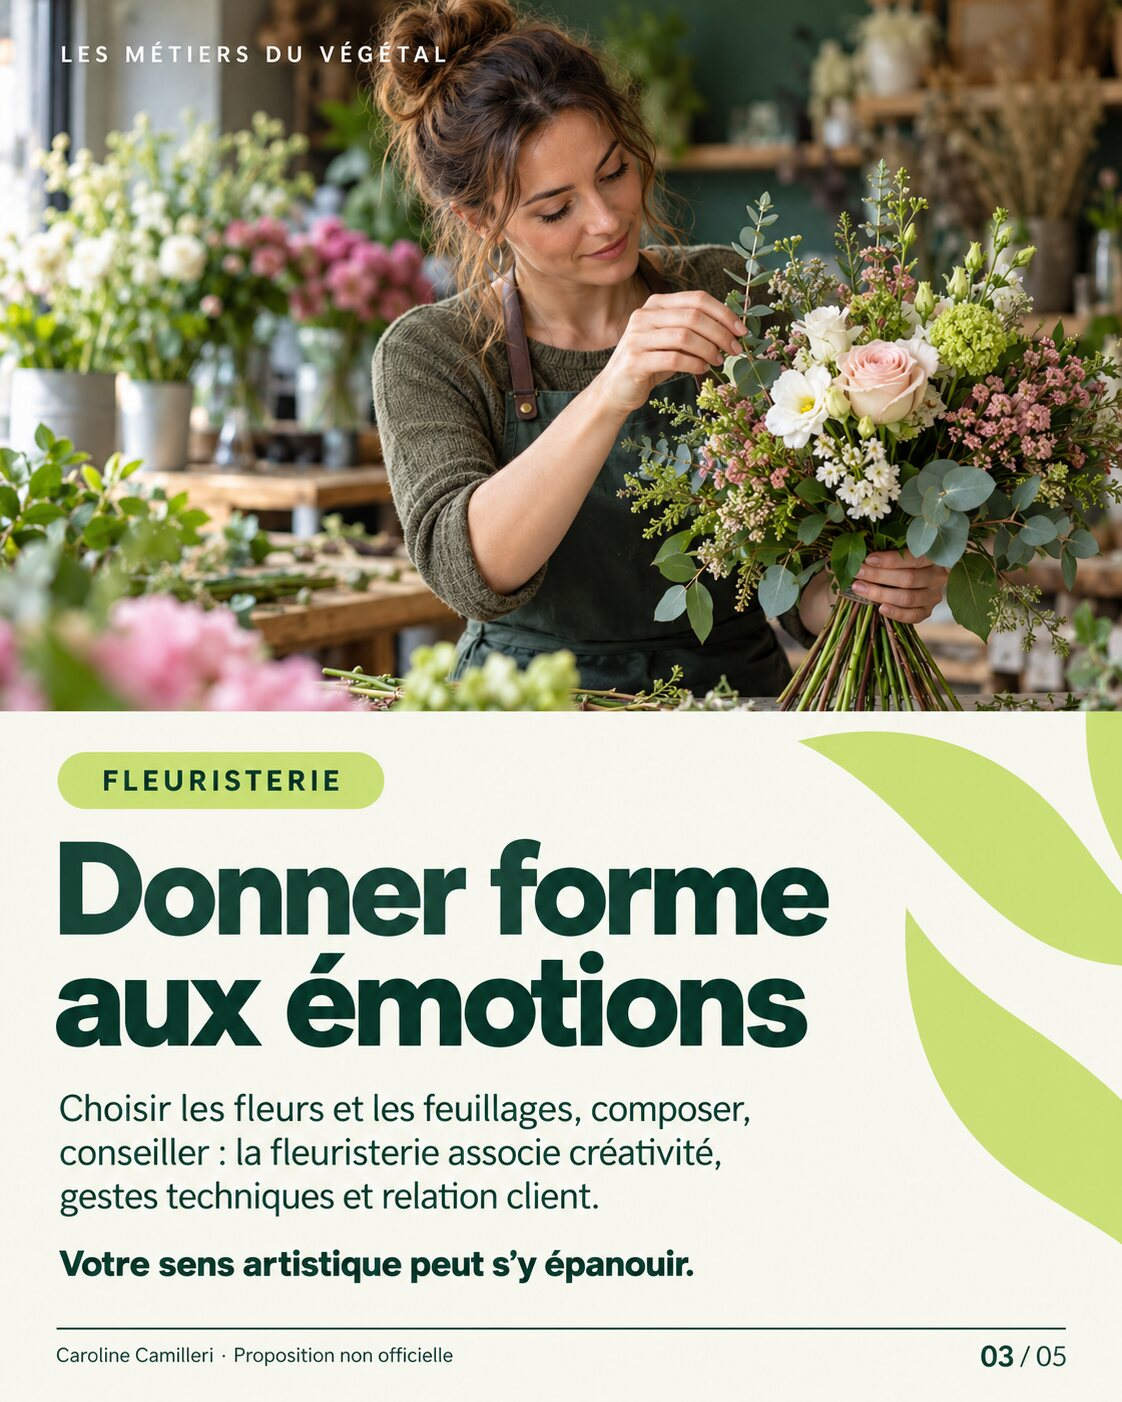
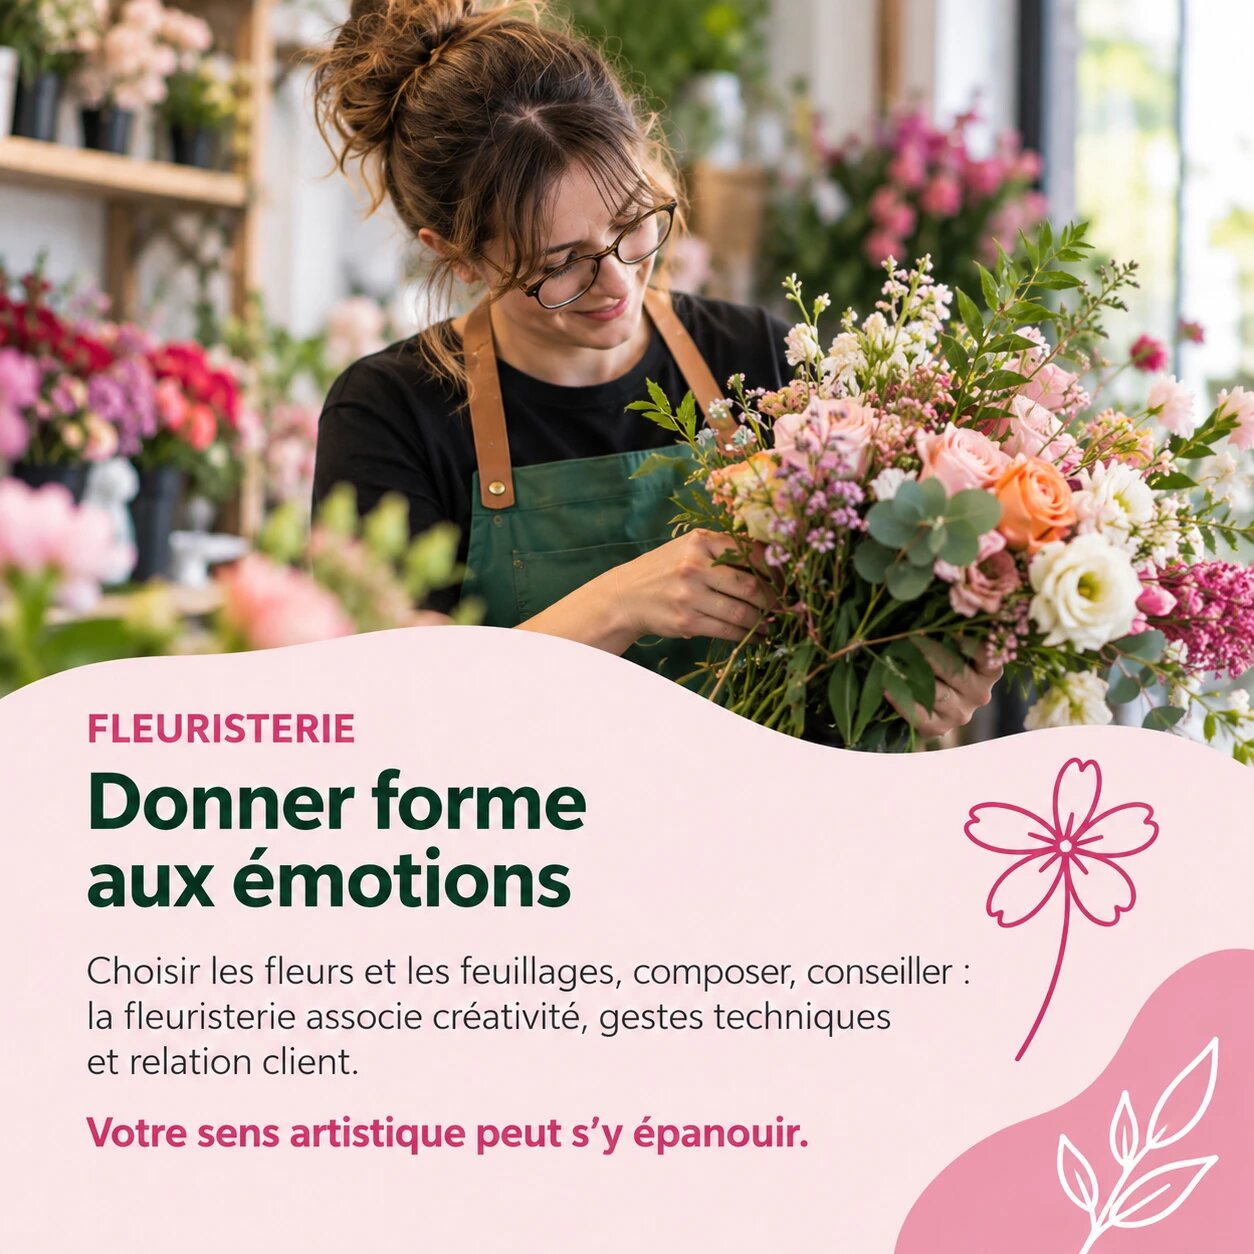
Nouveaux visuels du carrousel et maquette de publication LinkedIn
- Remplacement des 5 visuels (format carré 1254 px), transcriptions et
  textes alternatifs mis à jour
- Texte proposé placé au-dessus du carrousel, dans une maquette de
  publication LinkedIn (texte repliable, carrousel document, barre d'actions
  décorative), sans compte officiel ni chiffres de réactions
- Publication et carrousel réunis en une seule réalisation

Claude-Session: https://claude.ai/code/session_01Prdpuy77pNa9u6f4qJaPVN

diff --git a/assets/js/content.js b/assets/js/content.js
@@ -46,40 +46,30 @@ window.PORTFOLIO = {
     surtitre: "Candidature · Chargé de projet Communication digitale et éditoriale",
     titre: "Valoriser les métiers du végétal, du message aux contenus",
     texte:
-      "Pour accompagner ma candidature chez VALHOR, j’ai imaginé une campagne exploratoire sur l’attractivité des métiers, déclinée en six réalisations qui répondent aux missions du poste.",
+      "Pour accompagner ma candidature chez VALHOR, j’ai imaginé une campagne exploratoire sur l’attractivité des métiers, déclinée en cinq réalisations qui répondent aux missions du poste.",
     profil:
       "Cheffe de projet digital, j’ai une expérience en communication digitale et institutionnelle au Marché International de Rungis (SEMMARIS).",
     bouton: "Découvrir les réalisations"
   },
 
   realisations: {
-    titre: "Six réalisations pour illustrer les missions du poste",
+    titre: "Cinq réalisations pour illustrer les missions du poste",
     intro:
       "Un même message, « Derrière chaque espace végétalisé, des métiers à découvrir », décliné par canal. Public visé : les personnes en orientation ou en reconversion ; relais : la filière, la formation, les partenaires institutionnels.",
     projets: [
       {
         id: "carrousel",
-        nom: "Carrousel LinkedIn",
+        nom: "Publication LinkedIn",
         titre: "Faire découvrir trois métiers sur LinkedIn",
         texte:
-          "Cinq pages pour présenter l’horticulture, la fleuristerie et le paysage : un message simple, des métiers incarnés, une lecture progressive.",
+          "Un texte d’accroche et un carrousel de cinq visuels : un message simple, des métiers incarnés, une lecture progressive.",
         statut: "disponible",
-        media: { type: "carrousel" },
-        attente:
-          "« Concevoir, planifier et publier des contenus adaptés aux différentes plateformes, notamment LinkedIn » ; « concevoir ou adapter des visuels ».",
-        experience:
-          "Animation des réseaux sociaux du Marché de Rungis et développement de ses communautés, de 1 000 à plus de 100 000 abonnés.",
-        tags: ["Social media", "LinkedIn", "Direction visuelle", "Production assistée par IA"],
-        note: "Sert l’ambition « attractivité des métiers » du projet Horizon 2030. Visuels générés avec l’IA sous ma direction."
-      },
-      {
-        id: "publication",
-        nom: "Publication LinkedIn",
-        titre: "Écrire le texte qui accompagne le carrousel",
-        texte: "Une accroche incarnée, les trois univers, une question pour ouvrir la conversation.",
-        statut: "proposition",
+        statutLibelle: "Visuels disponibles · texte proposé",
         media: {
           type: "publication",
+          auteur: "Caroline Camilleri",
+          sousTitre: "Proposition de publication · non diffusée",
+          titreDocument: "Les métiers du végétal",
           paragraphes: [
             "Derrière les espaces végétalisés que nous côtoyons, il y a des femmes, des hommes et des savoir-faire.",
             "Faire grandir les plantes, composer avec les fleurs, concevoir et entretenir les espaces extérieurs : les métiers du végétal ouvrent des voies variées.",
@@ -89,10 +79,11 @@ window.PORTFOLIO = {
           hashtags: ["#MétiersDuVégétal", "#Horticulture", "#Fleuristerie", "#Paysage"]
         },
         attente:
-          "« Animer les communautés digitales […] et favoriser l’engagement des audiences » ; « veiller à la qualité rédactionnelle ».",
-        experience: "Rédaction de contenus éditoriaux et de publications pour les réseaux sociaux.",
-        tags: ["Rédaction", "Engagement", "Cohérence des messages"],
-        note: "Proposition de texte, non publiée."
+          "« Concevoir, planifier et publier des contenus adaptés aux différentes plateformes, notamment LinkedIn » ; « concevoir ou adapter des visuels » ; « favoriser l’engagement des audiences ».",
+        experience:
+          "Animation des réseaux sociaux du Marché de Rungis et développement de ses communautés, de 1 000 à plus de 100 000 abonnés.",
+        tags: ["Social media", "LinkedIn", "Rédaction", "Direction visuelle", "Production assistée par IA"],
+        note: "Sert l’ambition « attractivité des métiers » du projet Horizon 2030. Visuels générés avec l’IA sous ma direction ; maquette sans compte officiel ni réactions."
       },
       {
         id: "newsletter",
@@ -179,10 +170,10 @@ window.PORTFOLIO = {
       role: "Couverture",
       image: "assets/img/carrousel/valhor-01-couverture",
       alt:
-        "Page 1, couverture. Titre : Derrière chaque espace végétalisé, des métiers à découvrir. Photo d’une jardinière plantant des fleurs dans un massif, un collègue travaillant en arrière-plan.",
+        "Page 1, couverture. Titre : Derrière chaque espace végétalisé, des métiers à découvrir. Photo d’une professionnelle de dos, portant un plateau de plantes fleuries dans une pépinière.",
       transcription: {
         titre: "Derrière chaque espace végétalisé, des métiers à découvrir.",
-        texte: ["Horticulture, fleuristerie, paysage : trois univers professionnels du végétal."]
+        texte: ["Horticulture, fleuristerie, paysage : découvrez trois univers professionnels du végétal."]
       }
     },
     {
@@ -190,7 +181,7 @@ window.PORTFOLIO = {
       role: "Horticulture",
       image: "assets/img/carrousel/valhor-02-horticulture",
       alt:
-        "Page 2, horticulture. Titre : Faire naître et grandir le végétal. Photo d’une horticultrice tenant un jeune plant en motte dans une serre.",
+        "Page 2, horticulture. Titre : Faire naître et grandir le végétal. Photo d’un jeune horticulteur travaillant des plants sous une serre.",
       transcription: {
         titre: "Horticulture — Faire naître et grandir le végétal",
         texte: [
@@ -204,7 +195,7 @@ window.PORTFOLIO = {
       role: "Fleuristerie",
       image: "assets/img/carrousel/valhor-03-fleuristerie",
       alt:
-        "Page 3, fleuristerie. Titre : Donner forme aux émotions. Photo d’une fleuriste ajustant un bouquet dans un atelier fleuri.",
+        "Page 3, fleuristerie. Titre : Donner forme aux émotions. Photo d’une fleuriste composant un bouquet de roses et de feuillages dans sa boutique.",
       transcription: {
         titre: "Fleuristerie — Donner forme aux émotions",
         texte: [
@@ -218,7 +209,7 @@ window.PORTFOLIO = {
       role: "Paysage",
       image: "assets/img/carrousel/valhor-04-paysage",
       alt:
-        "Page 4, paysage. Titre : Imaginer, aménager, entretenir. Photo d’une paysagiste plantant dans un massif d’un espace urbain.",
+        "Page 4, paysage. Titre : Imaginer, aménager, entretenir. Photo d’un paysagiste casqué entretenant un massif fleuri avec une débroussailleuse.",
       transcription: {
         titre: "Paysage — Imaginer, aménager, entretenir",
         texte: [
@@ -232,7 +223,7 @@ window.PORTFOLIO = {
       role: "Conclusion",
       image: "assets/img/carrousel/valhor-05-conclusion",
       alt:
-        "Page 5, conclusion. Titre : Et si votre avenir prenait racine dans le végétal ? Photo de mains tenant de la terre et de jeunes pousses.",
+        "Page 5, conclusion. Titre : Et si votre avenir prenait racine dans le végétal ? Photo d’un parc urbain fleuri avec un banc, des arbres et des immeubles en arrière-plan.",
       transcription: {
         titre: "Et si votre avenir prenait racine dans le végétal ?",
         texte: [

diff --git a/assets/js/main.js b/assets/js/main.js
@@ -48,8 +48,8 @@
   function picture(base, alt, opts) {
     opts = opts || {};
     return "<picture>" +
-      '<source type="image/webp" srcset="' + esc(base) + "-720.webp 720w, " + esc(base) + '.webp 1122w" sizes="' + (opts.sizes || "(min-width: 900px) 440px, 92vw") + '">' +
-      '<img src="' + esc(base) + '.jpg" width="1122" height="1402" alt="' + esc(alt) + '"' +
+      '<source type="image/webp" srcset="' + esc(base) + "-720.webp 720w, " + esc(base) + '.webp 1254w" sizes="' + (opts.sizes || "(min-width: 900px) 460px, 92vw") + '">' +
+      '<img src="' + esc(base) + '.jpg" width="1254" height="1254" alt="' + esc(alt) + '"' +
       (opts.eager ? ' fetchpriority="high"' : ' loading="lazy"') + ' decoding="async">' +
       "</picture>";
   }
@@ -92,36 +92,57 @@
   var SLIDES = C.carrousel;
   var n = SLIDES.length;
 
-  function mediaCarrousel() {
-    return '<div class="carousel" data-carousel aria-roledescription="carrousel" role="region" aria-label="Carrousel LinkedIn, ' + n + ' pages">' +
+  var ACTIONS = {
+    like: '<path d="M7 11v9H4v-9h3zm0 0l4-7c1.5 0 2.5 1 2.2 2.6L12.8 10H19a2 2 0 0 1 2 2.3l-1.2 6A2 2 0 0 1 17.8 20H7"/>',
+    comment: '<path d="M4 5h16v11H9l-5 4V5z"/>',
+    repost: '<path d="M7 7h11l-3-3M17 17H6l3 3M18 7v5M6 17v-5"/>',
+    send: '<path d="M21 3L3 10l7 3 3 7 8-17zM10 13l5-5"/>',
+    globe: '<circle cx="12" cy="12" r="8"/><path d="M4 12h16M12 4c2.5 2.5 2.5 13.5 0 16M12 4c-2.5 2.5-2.5 13.5 0 16"/>'
+  };
+  function svg(path, cls) {
+    return '<svg class="' + cls + '" aria-hidden="true" focusable="false" viewBox="0 0 24 24">' + path + "</svg>";
+  }
+
+  // Maquette de publication LinkedIn : texte au-dessus, carrousel « document » en dessous.
+  // Volontairement sans compte officiel ni chiffres de réactions.
+  function mediaPublication(p) {
+    var m = p.media;
+    var initiales = m.auteur.split(" ").map(function (w) { return w.charAt(0); }).join("");
+    return '<figure class="li-post">' +
+      '<figcaption class="sr-only">Maquette de publication LinkedIn proposée, non diffusée.</figcaption>' +
+      '<div class="li-post__head">' +
+      '<span class="li-post__avatar" aria-hidden="true">' + esc(initiales) + "</span>" +
+      '<div><p class="li-post__author">' + esc(m.auteur) + "</p>" +
+      '<p class="li-post__meta">' + esc(m.sousTitre) + " · " + svg(ACTIONS.globe, "li-post__globe") + "</p></div>" +
+      "</div>" +
+      '<div class="li-post__text is-collapsed" id="li-texte">' +
+      m.paragraphes.map(function (t) { return "<p>" + esc(t) + "</p>"; }).join("") +
+      '<p class="li-post__tags">' + m.hashtags.map(esc).join(" ") + "</p>" +
+      "</div>" +
+      '<button class="li-post__more" type="button" aria-expanded="false" aria-controls="li-texte">… plus<span class="sr-only"> : afficher tout le texte</span></button>' +
+      '<div class="carousel" data-carousel aria-roledescription="carrousel" role="region" aria-label="Carrousel LinkedIn, ' + n + ' pages">' +
+      '<div class="carousel__frame">' +
       '<div class="carousel__viewport" tabindex="0" aria-describedby="carousel-aide">' +
       SLIDES.map(function (d, i) {
         return '<div class="carousel__slide" role="group" aria-roledescription="page" aria-label="' + (i + 1) + " sur " + n + " : " + esc(d.role) + '">' +
           picture(d.image, d.alt, { eager: i === 0 }) + "</div>";
       }).join("") +
       "</div>" +
-      '<p class="sr-only" id="carousel-aide">Utilisez les flèches gauche et droite du clavier pour changer de page.</p>' +
-      '<div class="carousel__controls">' +
-      '<button class="btn-icon" type="button" data-action="prev" aria-label="Page précédente">' + icone("prev") + "</button>" +
-      '<p class="carousel__counter" aria-hidden="true"><span data-current>1</span> / ' + n + "</p>" +
-      '<button class="btn-icon" type="button" data-action="next" aria-label="Page suivante">' + icone("next") + "</button>" +
-      '<button class="btn btn--ghost carousel__zoom" type="button" data-action="zoom">' + icone("expand") + '<span>Agrandir<span class="sr-only"> la page affichée</span></span></button>' +
+      '<p class="carousel__bar" aria-hidden="true">' + esc(m.titreDocument) + ' · <span data-current>1</span> / ' + n + "</p>" +
+      '<button class="btn-icon carousel__arrow carousel__arrow--prev" type="button" data-action="prev" aria-label="Page précédente">' + icone("prev") + "</button>" +
+      '<button class="btn-icon carousel__arrow carousel__arrow--next" type="button" data-action="next" aria-label="Page suivante">' + icone("next") + "</button>" +
+      '<button class="btn-icon carousel__zoom" type="button" data-action="zoom" aria-label="Agrandir la page affichée">' + icone("expand") + "</button>" +
+      '<span class="carousel__progress" aria-hidden="true"><span data-progress></span></span>' +
       "</div>" +
+      '<p class="sr-only" id="carousel-aide">Utilisez les flèches gauche et droite du clavier pour changer de page.</p>' +
       '<p class="sr-only" aria-live="polite" data-status></p>' +
-      "</div>";
-  }
-
-  function mediaPublication(m) {
-    return '<figure class="post">' +
-      '<p class="post__label">Proposition éditoriale · non publiée</p>' +
-      '<blockquote class="post__body">' +
-      m.paragraphes.map(function (p) { return "<p>" + esc(p) + "</p>"; }).join("") +
-      '<p class="post__tags">' + m.hashtags.map(esc).join(" ") + "</p>" +
-      "</blockquote>" +
-      '<figcaption class="post__media">' +
-      '<img src="' + esc(SLIDES[0].image) + '-720.webp" alt="" width="1122" height="1402" loading="lazy" decoding="async">' +
-      "<span>Accompagne le carrousel de " + n + " pages</span>" +
-      "</figcaption></figure>";
+      "</div>" +
+      '<div class="li-post__actions" aria-hidden="true">' +
+      [["like", "J’aime"], ["comment", "Commenter"], ["repost", "Republier"], ["send", "Envoyer"]].map(function (a) {
+        return "<span>" + svg(ACTIONS[a[0]], "li-post__icon") + a[1] + "</span>";
+      }).join("") +
+      "</div>" +
+      "</figure>";
   }
 
   function mediaNewsletter(p) {
@@ -173,8 +194,7 @@
   }
 
   var MEDIAS = {
-    carrousel: mediaCarrousel,
-    publication: function (p) { return mediaPublication(p.media); },
+    publication: mediaPublication,
     newsletter: mediaNewsletter,
     video: mediaVideo,
     article: mediaArticle,
@@ -257,8 +277,19 @@
   var btnZoom = root.querySelector('[data-action="zoom"]');
   var current = root.querySelector("[data-current]");
   var status = root.querySelector("[data-status]");
+  var progress = root.querySelector("[data-progress]");
   var lightbox = document.getElementById("lightbox");
   var index = 0;
+
+  // « … plus » : déplie le texte de la publication, comme sur LinkedIn.
+  var more = document.querySelector(".li-post__more");
+  more.addEventListener("click", function () {
+    document.getElementById("li-texte").classList.remove("is-collapsed");
+    more.hidden = true;
+    more.setAttribute("aria-expanded", "true");
+    document.getElementById("li-texte").setAttribute("tabindex", "-1");
+    document.getElementById("li-texte").focus();
+  });
 
   function show(i, announce) {
     index = Math.max(0, Math.min(slides.length - 1, i));
@@ -269,6 +300,7 @@
       if ("inert" in s) s.inert = !active;
     });
     current.textContent = index + 1;
+    progress.style.width = ((index + 1) / slides.length * 100) + "%";
     if (announce) status.textContent = "Page " + (index + 1) + " sur " + slides.length + " : " + SLIDES[index].role;
 
     // Pas de bouclage : on désactive en bout de course, sans perdre le focus.

diff --git a/assets/css/styles.css b/assets/css/styles.css
@@ -247,7 +247,7 @@ a { color: var(--forest); text-underline-offset: 0.18em; }
 .project__media {
   display: flex; flex-direction: column; justify-content: center; align-items: center;
   min-width: 0;
-  padding: 1.25rem;
+  padding: 0.75rem;
   background: var(--tint);
   border-bottom: 1px solid var(--border);
 }
@@ -294,20 +294,72 @@ a { color: var(--forest); text-underline-offset: 0.18em; }
 .transcript__plain { gap: 0.4rem; padding-left: 2rem; list-style: disc; }
 .transcript__title { font-weight: 700; color: var(--forest); }
 
-/* Carrousel */
-.carousel { width: min(100%, 420px); }
-@media (min-width: 900px) {
-  /* Hauteur limitée pour lire la page sans défiler. */
-  .carousel { width: min(100%, calc(min(62vh, 560px) * 1122 / 1402)); }
+/* Publication LinkedIn (maquette) */
+.li-post {
+  --li-blue: #0a66c2;
+  /* Largeur limitée pour que la publication tienne dans l'écran sur ordinateur. */
+  width: min(100%, 460px);
+  margin: 0;
+  background: #fff;
+  border: 1px solid #dcdcdc;
+  border-radius: var(--radius-card);
+  box-shadow: 0 1px 2px rgba(0, 0, 0, 0.08);
+  color: #1d1d1d;
+  font-family: -apple-system, system-ui, "Segoe UI", Roboto, "Helvetica Neue", Arial, sans-serif;
+  font-size: 0.875rem;
+  line-height: 1.45;
+  overflow: hidden;
 }
+@media (min-width: 900px) {
+  .li-post { width: min(100%, calc(min(52vh, 460px))); min-width: min(100%, 360px); }
+}
+.li-post__head { display: flex; align-items: center; gap: 0.6rem; padding: 0.75rem 0.9rem 0.4rem; }
+.li-post__avatar {
+  display: grid; place-items: center; flex: none;
+  width: 44px; height: 44px;
+  font-family: var(--font-display); font-weight: 800; font-size: 0.95rem;
+  color: var(--forest-deep); background: var(--lime);
+  border-radius: 50%;
+}
+.li-post__author { font-weight: 600; font-size: 0.9rem; }
+.li-post__meta { font-size: 0.75rem; color: #5e5e5e; }
+.li-post__globe { display: inline-block; vertical-align: -0.1em; width: 0.8rem; height: 0.8rem; fill: none; stroke: currentColor; stroke-width: 1.8; }
+.li-post__text { display: grid; gap: 0.55rem; padding: 0.25rem 0.9rem 0; }
+/* Replié : seul le premier paragraphe, limité à deux lignes, comme sur LinkedIn. */
+.li-post__text.is-collapsed > :not(:first-child) { display: none; }
+.li-post__text.is-collapsed > :first-child {
+  display: -webkit-box;
+  -webkit-box-orient: vertical;
+  -webkit-line-clamp: 2;
+  overflow: hidden;
+}
+.li-post__more[hidden] { display: none; }
+.li-post__tags { color: var(--li-blue); font-weight: 600; }
+.li-post__more {
+  display: block; margin: 0 0.9rem 0 auto; padding: 0.1rem 0;
+  font: inherit; font-size: 0.85rem; color: #5e5e5e;
+  background: none; border: 0; cursor: pointer;
+}
+.li-post__more:hover { color: var(--li-blue); text-decoration: underline; }
+.li-post__text:not(.is-collapsed) { padding-bottom: 0.6rem; }
+.li-post__actions {
+  display: grid; grid-template-columns: repeat(4, 1fr);
+  padding: 0.25rem 0.4rem;
+  border-top: 1px solid #e8e8e8;
+  color: #5e5e5e; font-size: 0.78rem; font-weight: 600;
+}
+.li-post__actions span { display: flex; align-items: center; justify-content: center; gap: 0.3rem; padding: 0.55rem 0.2rem; }
+.li-post__icon { width: 1.05rem; height: 1.05rem; fill: none; stroke: currentColor; stroke-width: 1.8; stroke-linejoin: round; stroke-linecap: round; }
+@media (max-width: 380px) { .li-post__actions span { flex-direction: column; gap: 0.1rem; } }
+
+/* Carrousel « document » dans la publication */
+.carousel { width: 100%; margin-top: 0.5rem; }
+.carousel__frame { position: relative; }
 .carousel__viewport {
   display: grid;
-  aspect-ratio: 1122 / 1402;
+  aspect-ratio: 1 / 1;
   max-width: 100%;
-  border-radius: var(--radius-control);
-  overflow: hidden;
-  background: var(--forest-night);
-  box-shadow: 0 18px 40px -24px rgba(15, 95, 49, 0.6);
+  background: #f3f2ef;
   touch-action: pan-y;
 }
 .carousel__slide { grid-area: 1 / 1; visibility: hidden; opacity: 0; }
@@ -316,31 +368,29 @@ a { color: var(--forest); text-underline-offset: 0.18em; }
 @media (prefers-reduced-motion: no-preference) {
   .carousel__slide { transition: opacity 0.25s ease, visibility 0.25s; }
 }
-.carousel__controls { display: flex; flex-wrap: wrap; align-items: center; gap: 0.6rem; margin-top: 0.9rem; }
-.carousel__counter { min-width: 3rem; text-align: center; font-weight: 700; font-variant-numeric: tabular-nums; color: var(--forest); }
-.carousel__zoom { margin-left: auto; }
-.carousel__zoom .icon { width: 1rem; height: 1rem; }
-
-/* Publication */
-.post {
-  width: min(100%, 440px); margin: 0;
-  background: var(--surface);
-  border: 1px solid var(--border);
-  border-radius: var(--radius-card);
-  overflow: hidden;
-  font-size: 0.95rem;
+.carousel__bar {
+  position: absolute; top: 0.6rem; left: 0.6rem;
+  padding: 0.2rem 0.55rem;
+  font-size: 0.75rem; font-weight: 600;
+  color: #fff; background: rgba(0, 0, 0, 0.7);
+  border-radius: var(--radius-control);
+  font-variant-numeric: tabular-nums;
+  pointer-events: none;
 }
-.post__label { padding: 0.8rem 1.1rem 0; font-size: 0.8rem; font-weight: 700; color: var(--muted); }
-.post__body { margin: 0; padding: 0.6rem 1.1rem 0.9rem; display: grid; gap: 0.6rem; }
-.post__tags { color: var(--forest); font-weight: 600; }
-.post__media {
-  display: flex; align-items: center; gap: 0.8rem;
-  padding: 0.7rem 1.1rem;
-  border-top: 1px solid var(--border);
-  background: var(--bg);
-  font-size: 0.85rem; color: var(--muted);
+.carousel__arrow, .carousel__zoom {
+  position: absolute;
+  width: 40px; height: 40px;
+  background: rgba(0, 0, 0, 0.7); color: #fff; border: 0;
 }
-.post__media img { width: 3rem; border-radius: 3px; }
+.carousel__arrow { top: 50%; transform: translateY(-50%); }
+.carousel__arrow--prev { left: 0.6rem; }
+.carousel__arrow--next { right: 0.6rem; }
+.carousel__zoom { right: 0.6rem; bottom: 0.9rem; }
+.carousel__arrow:disabled { display: none; }
+.carousel__arrow:hover:not(:disabled), .carousel__zoom:hover { background: #000; color: #fff; }
+.carousel__progress { position: absolute; left: 0; right: 0; bottom: 0; height: 4px; background: rgba(0, 0, 0, 0.15); }
+.carousel__progress span { display: block; height: 100%; width: 20%; background: var(--li-blue); }
+@media (prefers-reduced-motion: no-preference) { .carousel__progress span { transition: width 0.25s ease; } }
 
 /* Emplacements en préparation */
 .placeholder {
